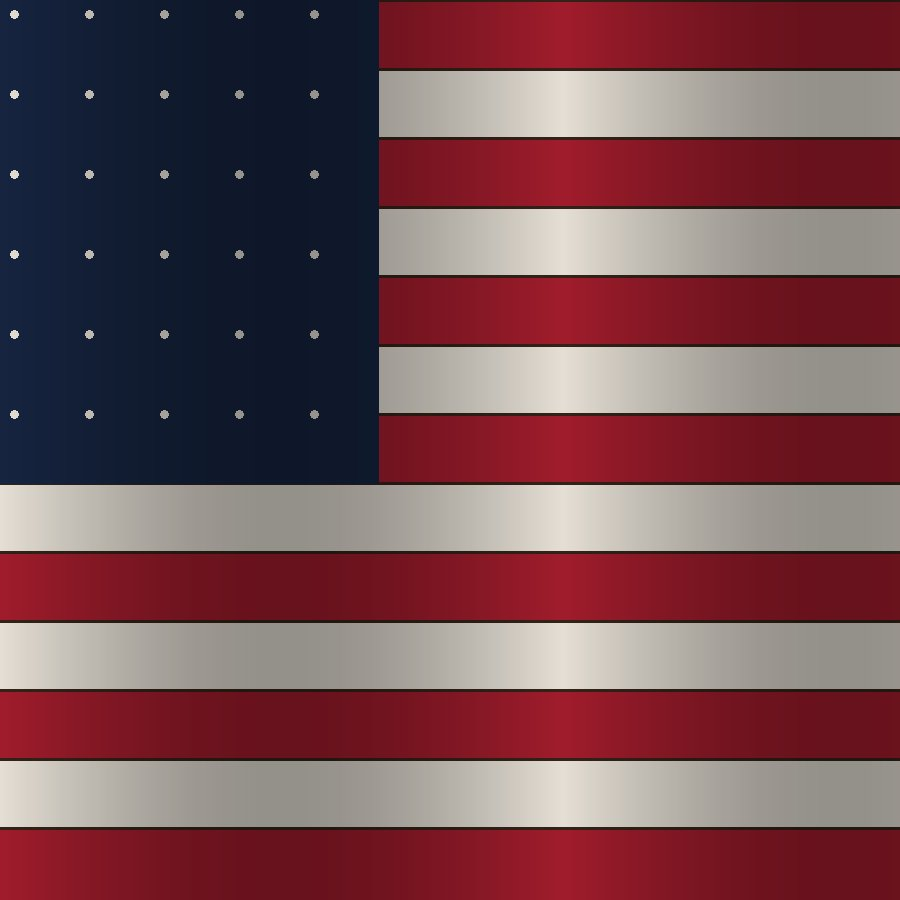
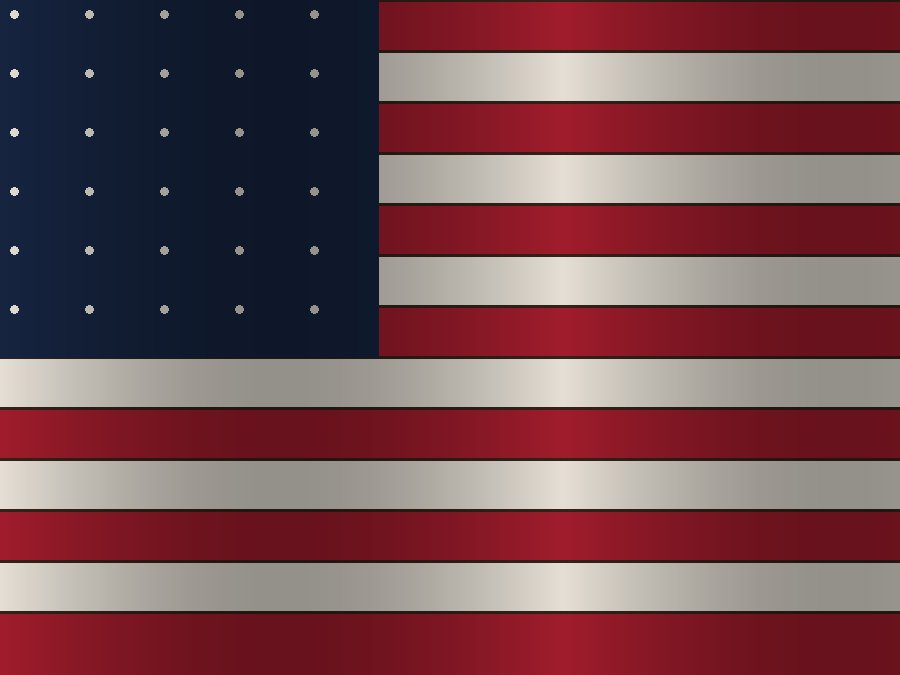
Add real custom-build photo, 4:3 card ratio, fix card alignment

diff --git a/styles.css b/styles.css
@@ -275,7 +275,7 @@ p { margin: 0 0 1rem; }
 
 .card-media {
   margin: 0;
-  aspect-ratio: 1 / 1;
+  aspect-ratio: 4 / 3;
   background: #ece7df;
   overflow: hidden;
 }
@@ -290,10 +290,11 @@ p { margin: 0 0 1rem; }
 
 .card-top {
   display: flex;
-  align-items: baseline;
+  align-items: flex-start;
   justify-content: space-between;
   gap: 12px;
   margin-bottom: 8px;
+  min-height: 3.4em; /* keeps price/specs aligned when a title wraps to 2 lines */
 }
 .card-top h3 { margin: 0; }
 

diff --git a/README.md b/README.md
@@ -13,9 +13,9 @@ Hand-built wooden flags. Plain HTML/CSS/JS, no build step, no dependencies.
 
 ## Add a product photo
 
-1. Save it as `assets/flag-N.jpg` (JPEG, roughly square).
+1. Save it as `assets/flag-N.jpg` (JPEG, 4:3 landscape works best).
 2. Add a `<article class="card">` block in `index.html` inside `.product-grid`.
-3. Update the `src`, `alt`, product name, price, description, and specs.
+3. Update the `src`, `alt`, product name, price, size, and description.
 
 ## Add a new product
 
